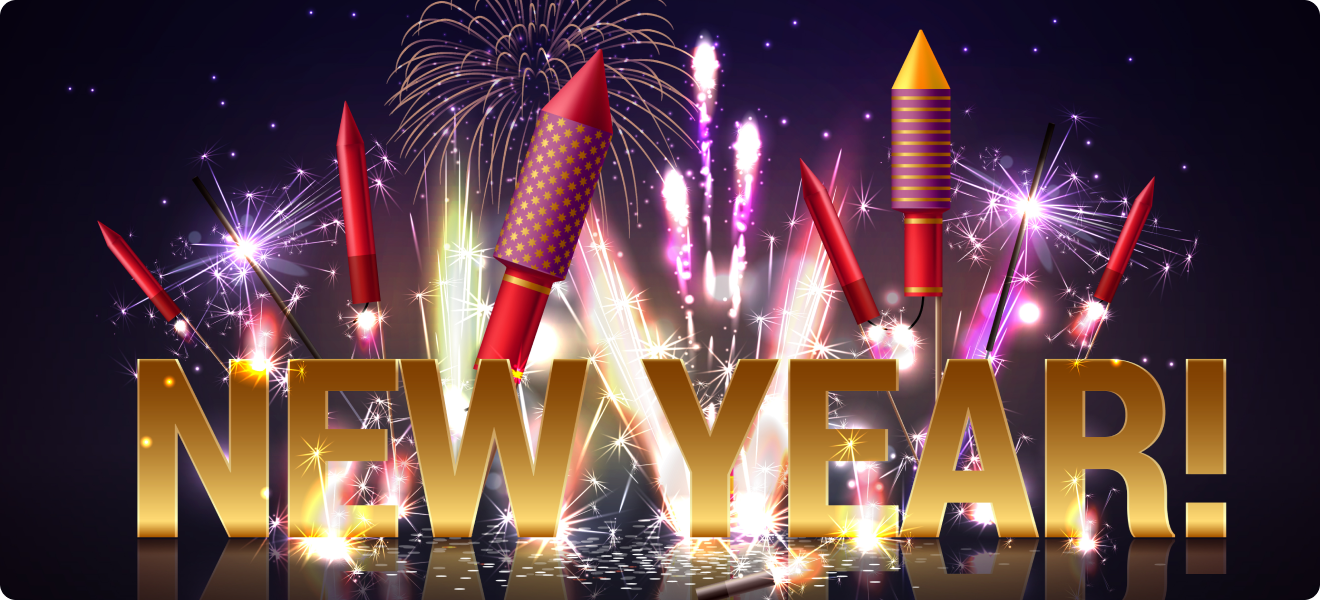
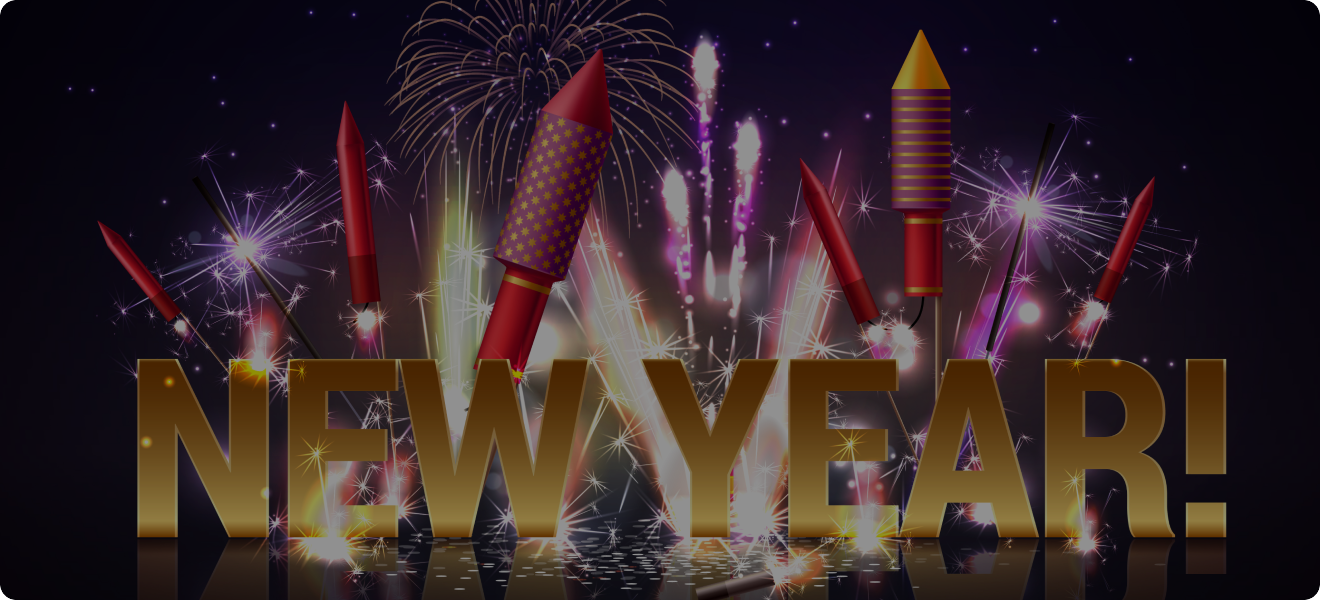
added body section

diff --git a/styles.css b/styles.css
@@ -20,10 +20,18 @@ text-align: center;
 color: #FFFFFF;
 margin-top: 10px;
 }
+.banner{
+    background: url('./assets/New\ Year\ Photo.png');
+    height: 600px;
+    width:1320px;
+    background:linear-gradient(to bottom, rgba(0,0,0,0.5), rgba(0,0,0,0,)),url('./assets/Banner\ Image.png');
+    display: block;
+    margin: 0 auto;
+ 
+}
 .header{
-    justify-content: center;
+  
     background-image: url('./assets/Banner\ Image.png');
-
     width: 1320px;
 height: 600px;
 border-radius: 16px;
@@ -32,6 +40,7 @@ display: block;
 margin: 0 auto;
 background-repeat: no-repeat;
 }
+
 #bodytext1{
     
    
@@ -72,11 +81,110 @@ margin: 0 auto;
 }
 .body1{
     display: flex;
-    justify-content: space-between;
-  
     background-image: url('./assets/Vectorrr.png');
+    border-radius: 20px;
+    background-image:linear-gradient(to bottom, rgba(0,0,0,0.5), rgba(0,0,0,0,)),url('./assets/Vectorrr.png');
     background-repeat: no-repeat;
+    background-position: center;
+    margin-top: 100px;
+    
+ }
+ 
+#bodyheading1{
+position: absolute;
+left: 100px;
+font-family: Merriweather;
+font-size: 64px;
+font-weight: 900;
+line-height: 88px;
+letter-spacing: 0.11em;
+text-align: left;
+color:#FFFFFF;
+
 }
-#2024{
-    margin-right: 130px;
+
+#bodytext4{
+    margin-left: 100px;
+font-family: Inter;
+color: #FFFFFF;
+font-size: 18px;
+font-weight: 400;
+line-height: 30px;
+letter-spacing: 0em;
+margin-top: 250px;
+
+
+
+}
+
+.yearpic{
+    display: flex;
+}
+#year{
+    width: 319.83px;
+    height: 464.66px;
+   margin-top: 100px;
+    padding: 0.01px, 0px, 0px, 0px;
+}
+.button{
+    
+    height: 24px;
+    border: 1px;
+    margin-left: 150px;
+    margin-top: 80px;
+    font-family: Inter;
+    font-size: 20px;
+    font-weight: 700;
+    line-height: 24px;
+    letter-spacing: 0em;
+    color: #FFFFFF;
+    background-color: transparent; 
+    margin-right: 600px;
+}    
+
+.body2{
+    margin-top: 120px;
+    text-align: center;
+    font-family: Inter;
+font-size: 32px;
+font-weight: 600;
+line-height: 56px;
+letter-spacing: 0em;
+margin: auto;
+color:#070211;
+background-image: linear-gradient(#f9b0b0, #FF000000);
+width: 1320px;
+height: 482px;
+border-radius: 20px;
+
+
+
+}
+.body2text{
+    padding-top: 100px;
+    text-align: center;
+}
+
+#pdt{
+    
+font-family: Inter;
+font-size: 32px;
+font-weight: 600;
+line-height: 56px;
+letter-spacing: 0em;
+text-align: center;
+color:#FF0000;
+}
+#button1{
+    width: 167px;
+height: 56px;
+top: 2732px;
+left: 716px;
+padding: 16px, 32px, 16px, 32px;
+border-radius: 8px;
+gap: 10px;
+background-color: #FF0000;
+color:#FFFFFF;
+border: none;
+
 }

diff --git a/index.html b/index.html
@@ -6,20 +6,46 @@
     <meta name="viewport" content="width=device-width, initial-scale=1.0">
     <title>b9-a1</title>
     <link rel="stylesheet" href="styles.css">
+    <div class="banner">
     <header class="header">
     <h5 class="heading1">Happy New Year</h5>
     <h3 class="heading2">New Year Party <br> Celebration</h3>
 </header>
+</div>
 </head>
 <body>
   <p id="bodytext1">65% OFF</p>
   <p id="bodytext2">OUR HOLIDAY DEALS ARE BETTER</p>
   <p id="bodytext3">ALL CATEGORIES</p>
 <img src="assets/New Year Photo.png" alt="new year pic" id="newyearpic">
+
+
+<!-- body1 starts here -->
 <div class="body1">
-<h3 id="bodyheading1">Welcome to midnight party</h3>
-<img src="assets/Group 70.png" alt="2024 pic" id="2024">
+  <div class="leftelements">
+<h3 id="bodyheading1">Welcome to <br> midnight party</h3>
+<p id="bodytext4">Join us for a GLITTERING New Year Bash!This party is going to be the best <br> party in town!Don't miss it,spend your new year eve with us! </p>
+
+<button class="button" onclick="myfunction()">JOIN NOW</button>
+<script>
+  function myfunction(){
+    alert('Button Clicked!');
+  }
+</script>
 </div>
+<div class="yearpic"><img src="assets/Group 70.png" alt="2024 pic" id="year"></div>
+</div>
+
+
+<!-- body 2 starts here -->
+<div class="body2">
+  <p class="body2text"><span id= "pdt">Place:</span> New Park Hotel <br>
+    <span id= "pdt">Date:</span> 31 December Night 2023 <br>
+    <span id= "pdt">Time:</span> Evening 7.30 pm to 12.30 Am</p>
+    <button type="button" id="button1">JOIN NOW</button>
+</div>
+
+
 
 
 
